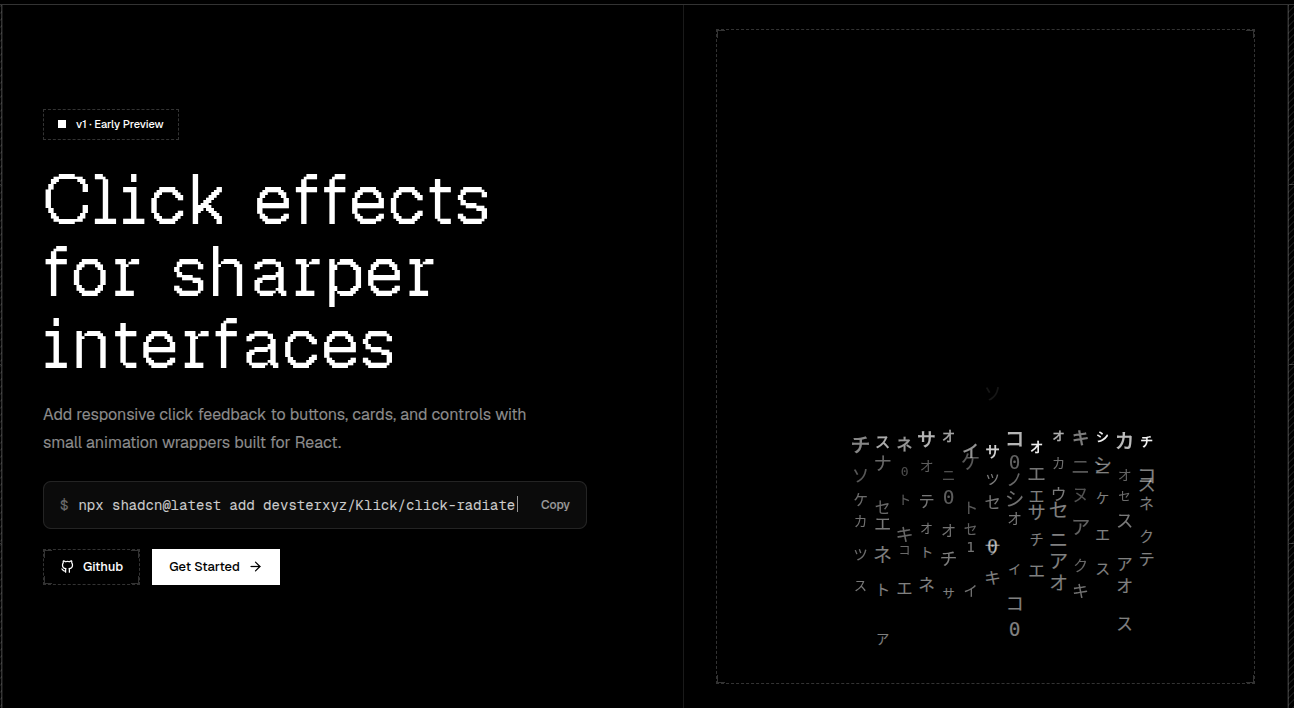
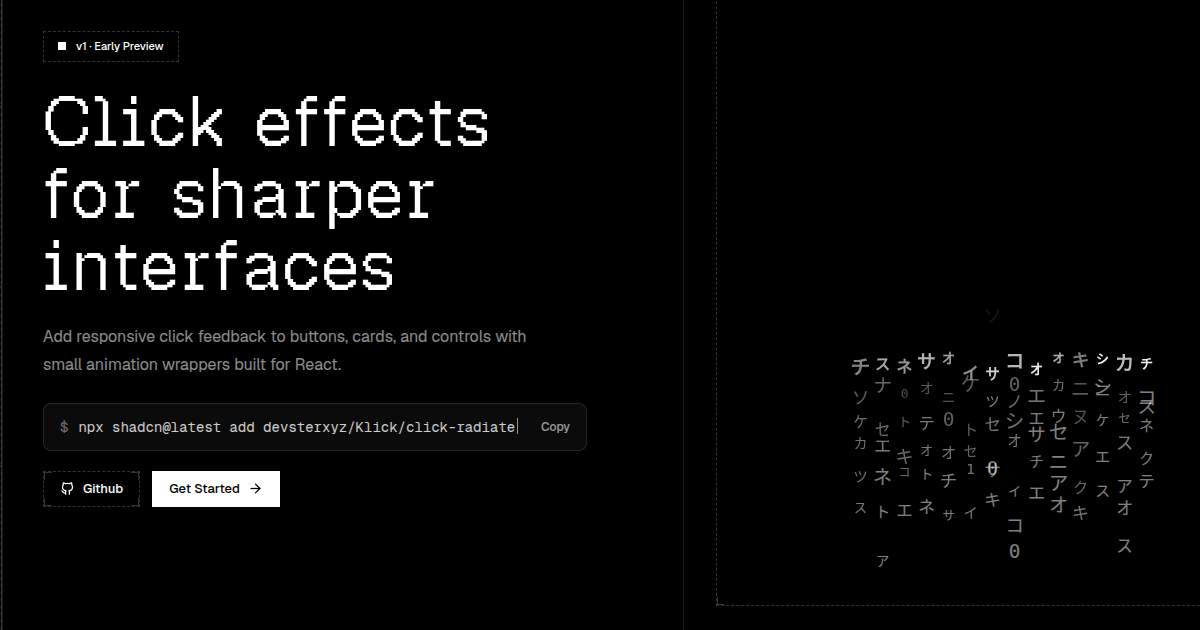
og image

diff --git a/index.html b/index.html
@@ -5,15 +5,19 @@
     <meta name="viewport" content="width=device-width, initial-scale=1.0" />
     <link rel="icon" href="public/logo.jpg">
 
+    <meta property="og:site_name" content="Klick" />
+    <meta property="og:image:width" content="1200" />
+    <meta property="og:image:height" content="630" />
     <meta property="og:type" content="website" />
     <meta property="og:title" content="Klick Here" />
-    <meta property="og:description" content="A multiplayer chess game" />
+    <meta property="og:image:type" content="image/png" />
+    <meta property="og:description" content="a cursor click animation library" />
     <meta property="og:image" content="https://klick-here.vercel.app/og-image.png" />
     <meta property="og:url" content="https://klick-here.vercel.app/" />
 
     <meta name="twitter:card" content="summary_large_image" />
     <meta name="twitter:title" content="Klick Here" />
-    <meta name="twitter:description" content="A multiplayer chess game" />
+    <meta name="twitter:description" content="a cursor click animation library" />
     <meta name="twitter:image" content="https://klick-here.vercel.app/og-image.png" />
 
     <title>Klick</title>
